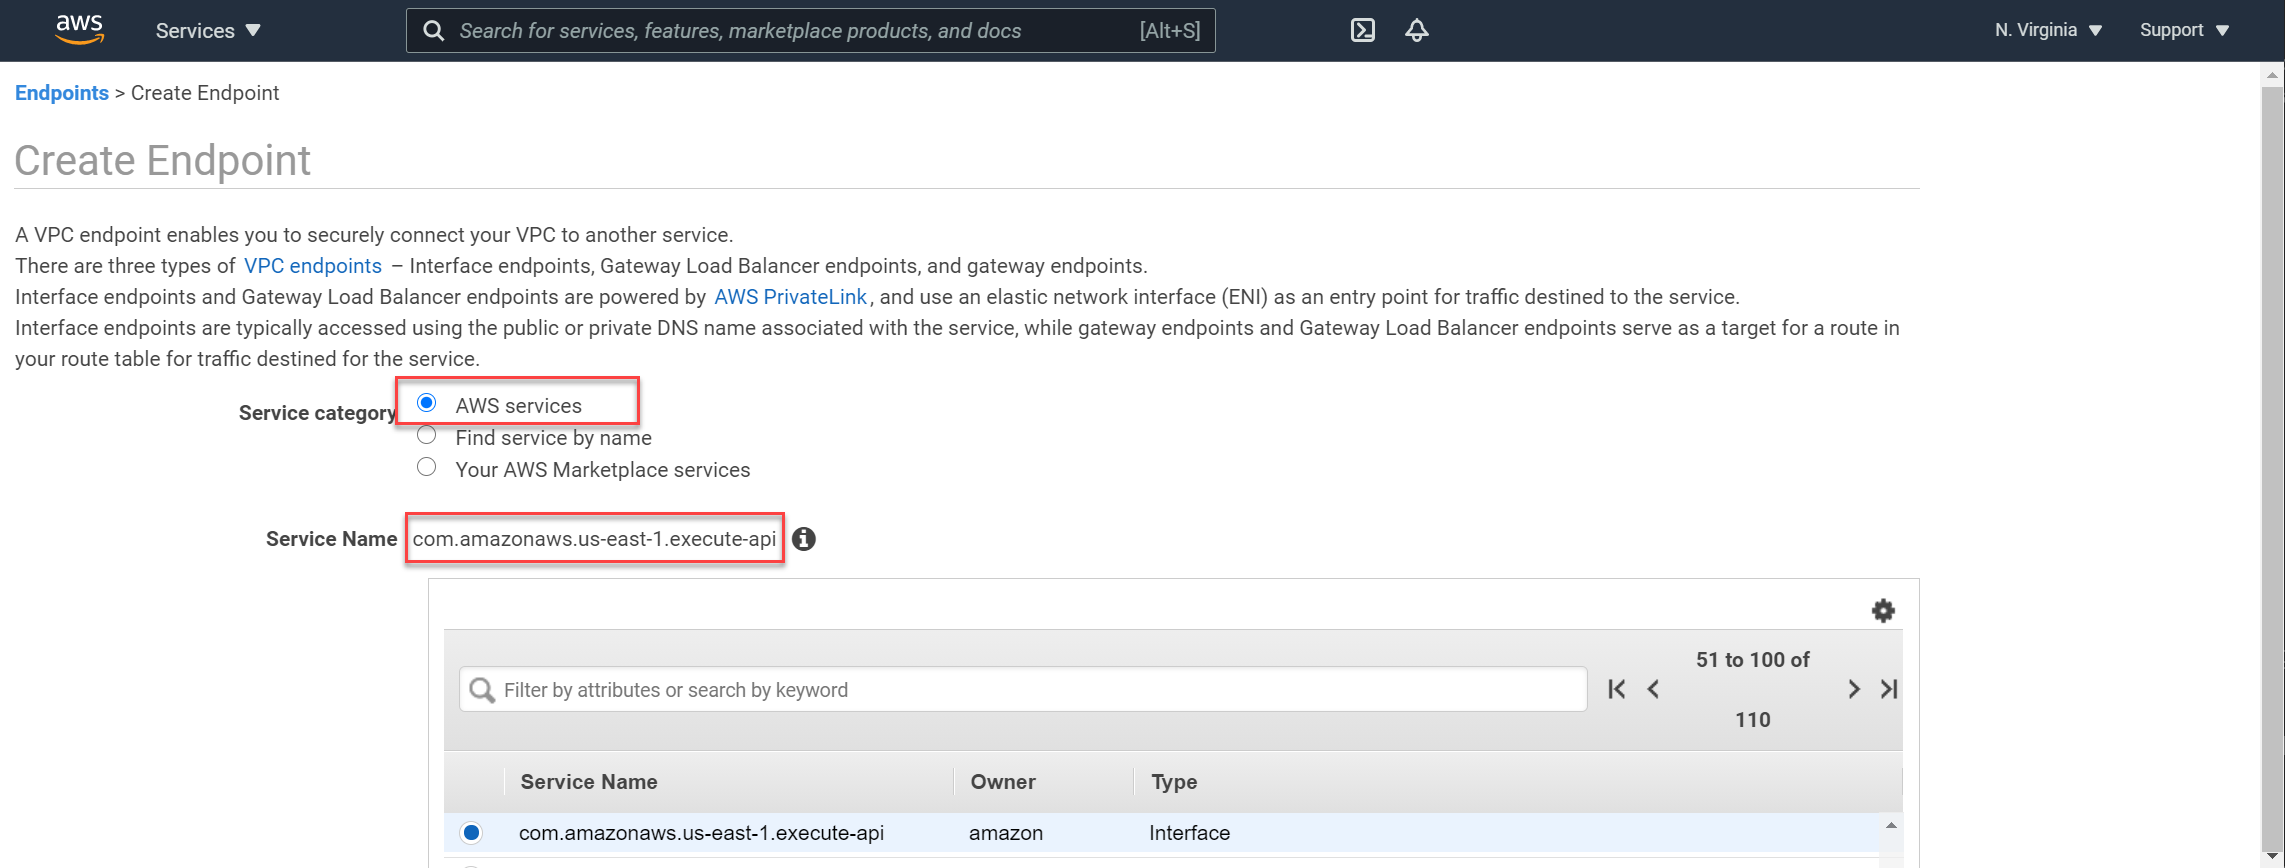
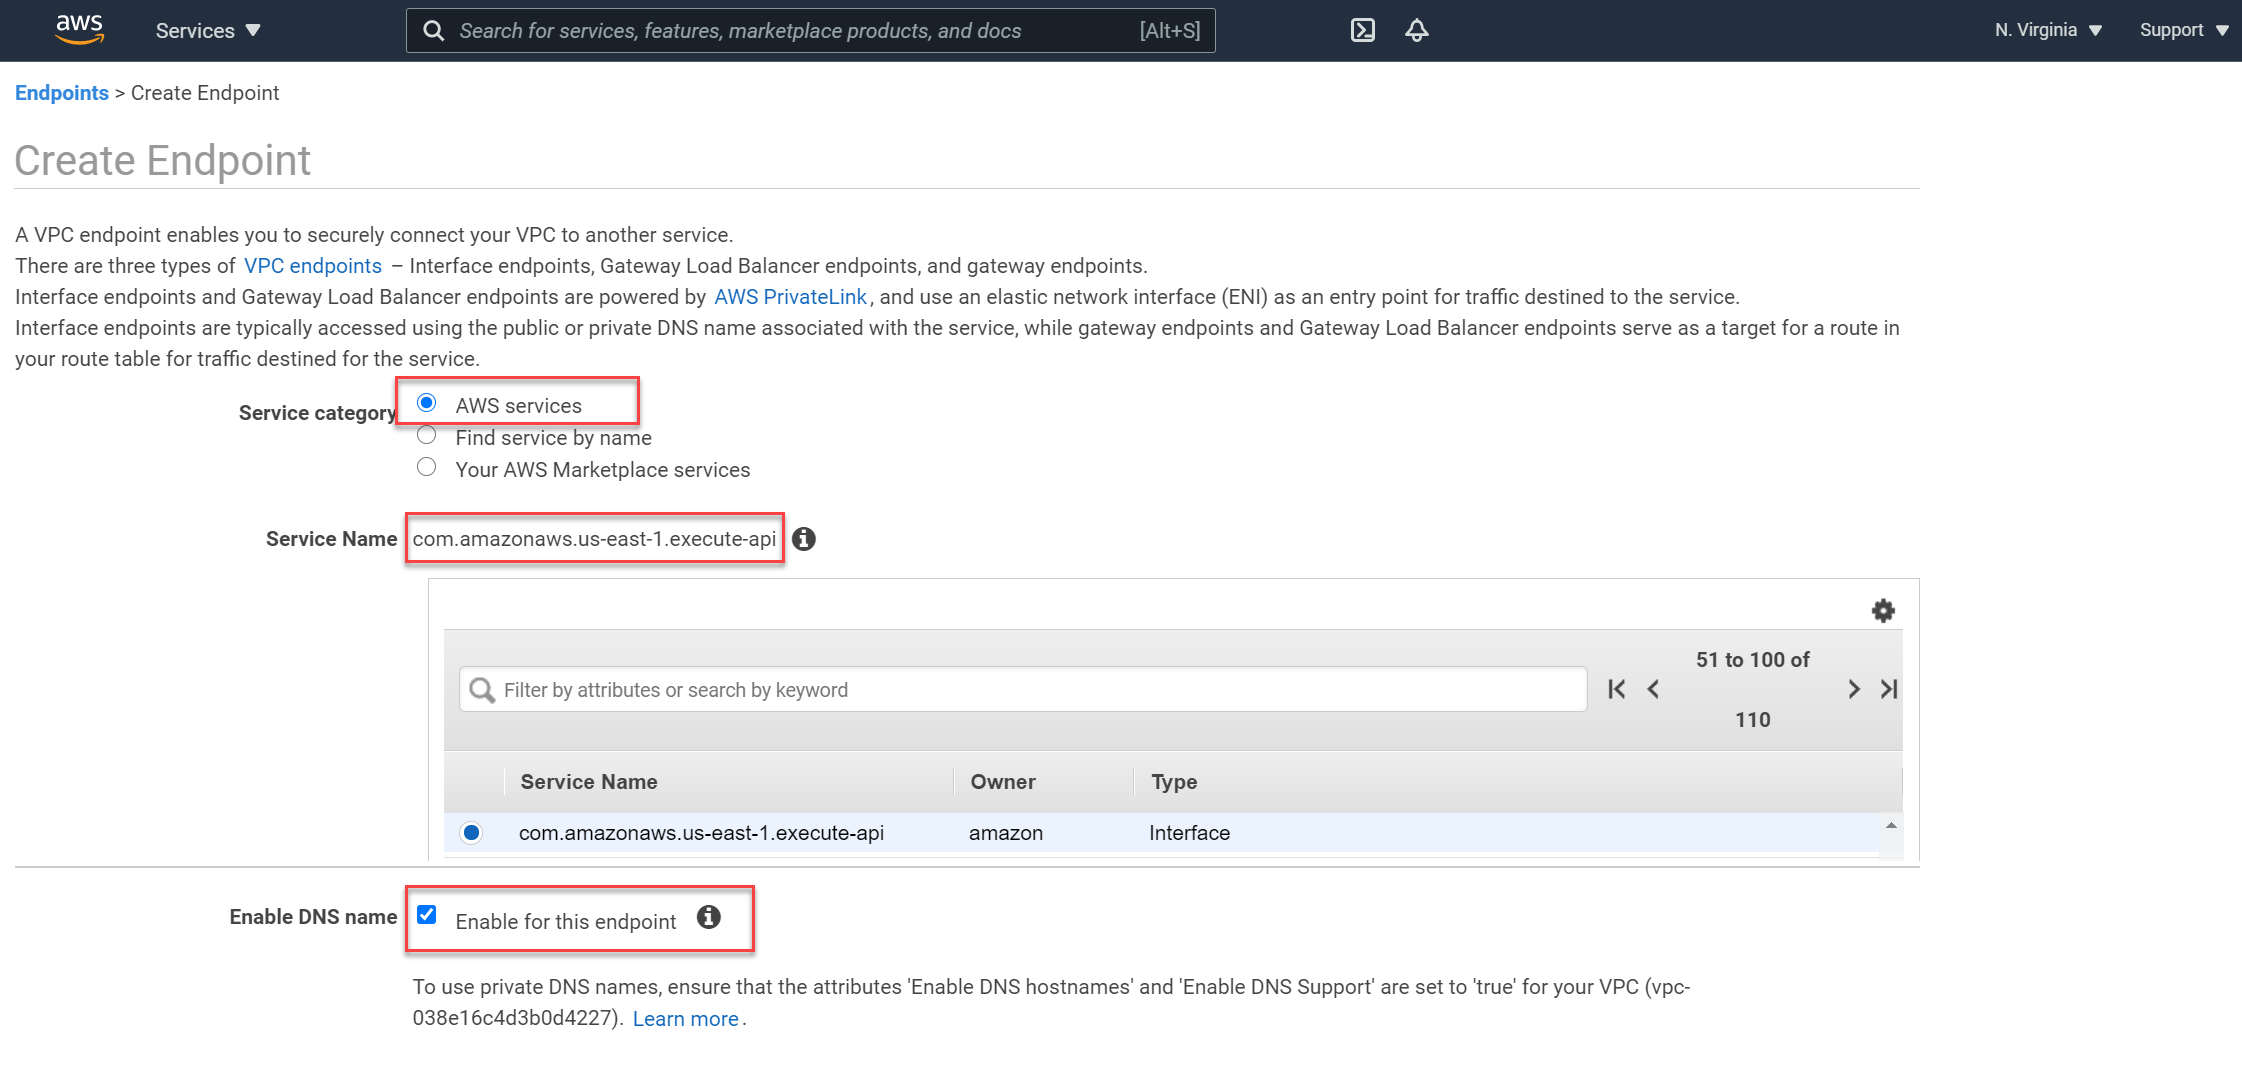
Initial API-GW Runbook commit 6

Changed region(s): [[0.0, 0.0, 1.0, 1.0], [0.0937, 0.591, 0.8742, 0.9954], [0.8118, 0.5599, 0.843, 0.591]]

diff --git a/apigateway/Runbook.md b/apigateway/Runbook.md
@@ -76,24 +76,43 @@ If there is currently no private VPC, one will need to be created with at least 
 <img src="/docs/img/apigw/vpc_ex.png" width="800"> 
 <br>
 
-2. Creation of a VPC Endpoint <br>
+2. Creation of a VPC Endpoint
+
 Search Endpoint Servicesw in the AWS search bar, click on Endpoint services which should be a sub-category of VPC Services. Now click on **Create Endpoint** as seen in the screenshot below.
 <br>
 <img src="/docs/img/apigw/create_endpoint.png" width="800"> 
 <br>
 
 Now in the VPC Endpoint configuration use the following settings to initialize your Endpoint.
+ - **Service Category:** "AWS Services"
  - **Service Name:** "com.amazonaws.{AWS region}.execute-api"
+ - **VPC:** "Select the [VPC](https://github.com/open-itg/aws_runbooks/blob/master/vpc/RUNBOOK.md) in which the endpoint will reside."
  - **Enable Private DNS:** "Enabled"
 
 <img src="/docs/img/apigw/create_endpoint_2.png" width="800"> 
 <br>
 
-The next section deals with VPC creation and assignment.
+The next section deals with Security Group creation and assignment.
+<br>
 
-3. Creation and attachment of a Security Group <br>
+3. Creation and attachment of a Security Group 
 
-4. Creation of an API Gateway <br>
+Once we have the initial configuration of the Endpoint, we now need to secure it with assignment of a Security Group. One can use a default Security Group, but it is a better option to create a security group for our service to limit the access to only allow CG IP's and port 443 (HTTPS) as below.
+
+We first need to click on create security group, after the appropriate VPC has been selected.
+
+<img src="/docs/img/apigw/sg_create.png" width="800"> 
+
+Now we need to create a new security group with the following baseline settings, although the security group can be created with even more restricted access if company wide access is not needed.
+
+- **Security Group Name:** "APIGWSG" or something similar.
+- **Description:** "API Gateway Access for HTTPS traffic" or similar.
+- **VPC:** Select the VPC that will be used for the Endpoint and API GW.
+
+<br>
+
+
+4. Creation of an API Gateway
 
 <br>
 
